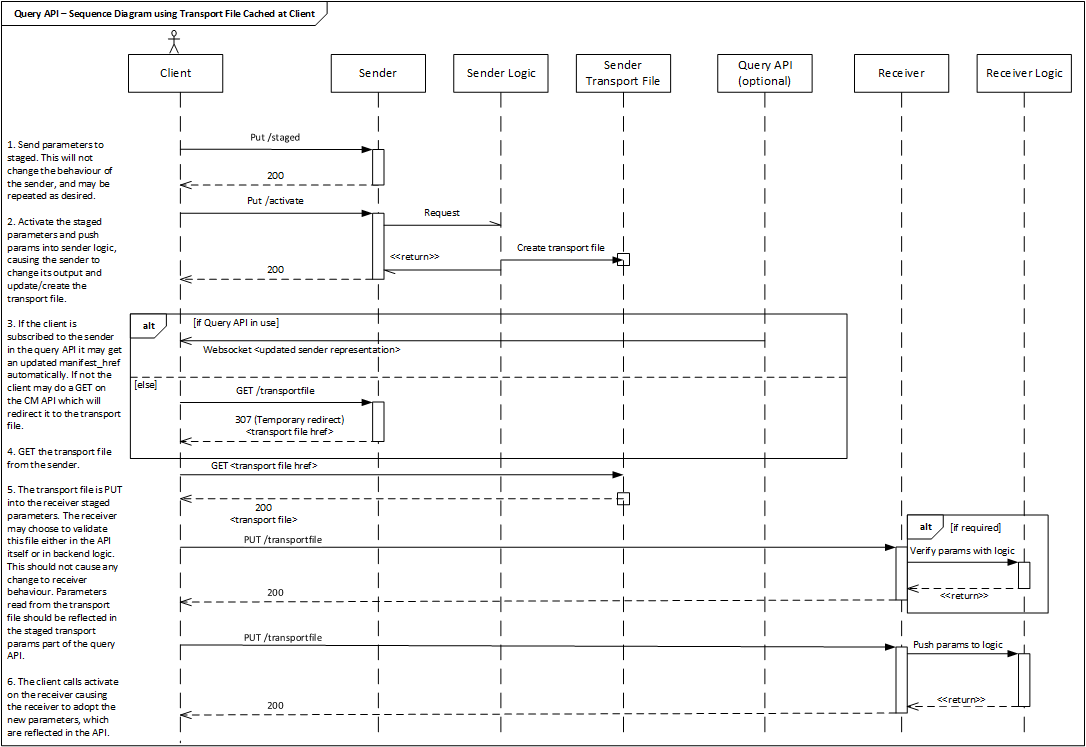
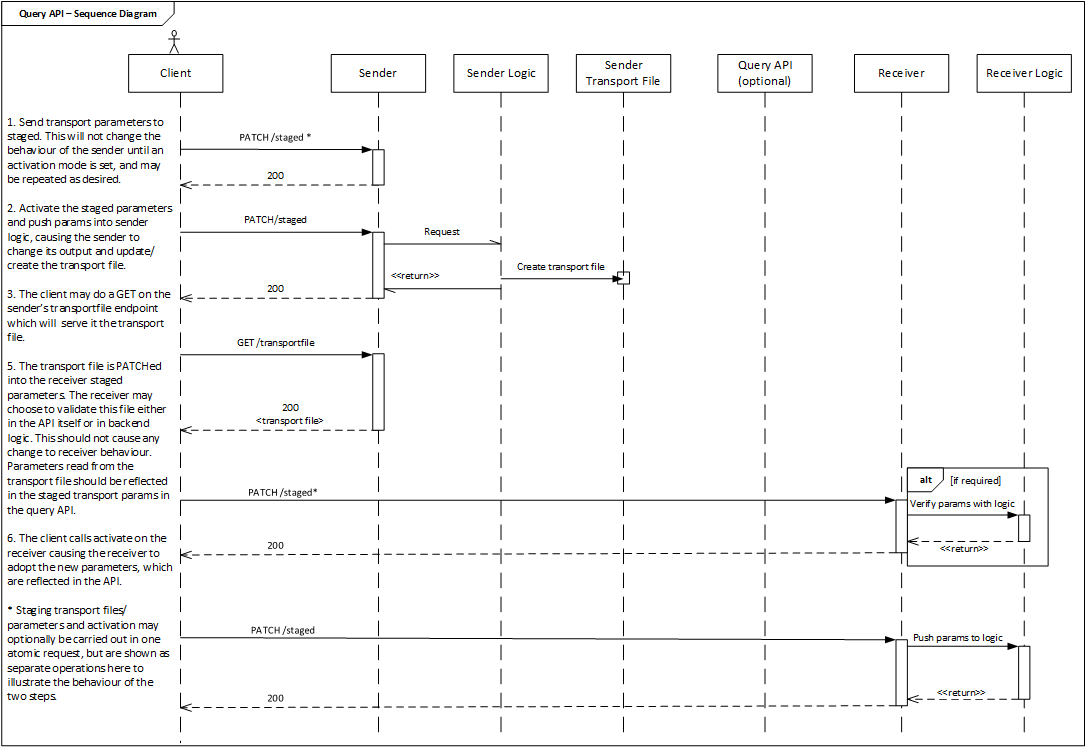
Update sequence diagram

diff --git a/README.md b/README.md
@@ -20,14 +20,19 @@ Readers should then read the [documentation](docs/) in this repository, and the 
 * [LICENSE](LICENSE) -- Licenses for software and text documents
 * [NOTICE](NOTICE) -- Disclaimer
 
+### Sequence Diagram
+The sequence diagram below shows a basic interaction with the Connection Management API:
+
+![Sequence Diagram](docs/direct_seq_diagram.png)
+
 ### Un-initialised Senders and Receivers
 
 When a sender or receiver is first started it may not have all the parameters it needs to operate. For example IP addresses and port numbers may not be set. In this instance:
 
-* Senders and receivers should present sensible default values on transport parameter endpoints. Suggested defaults are given in the relevant schemas. Parameters such as port numbers may have defaults in various RFCs that should be followed. Parameters where no sensible defaults exist, such as source IP address on a receiver, should be set to null.
+* Senders and receivers should present sensible default values on transport parameter endpoints. Suggested defaults are given in the relevant schemas, but will generally be 'auto' or null. Parameters such as port numbers may have defaults in various RFCs that should be followed. Parameters where no sensible defaults exist, such as source IP address on a receiver, should be set to null.
 * Senders that are not configured (for example have a null source IP address value), should return 404 on their active transport file endpoint, until a usable set of parameters has been activated.
 
-### Interaction with the Node API###
+### Interaction with the Node API
 
 The Connection Management API supersedes the now deprecated method of updating the "subscription" parameter on Node API receivers in order to establish connection. The two methods of operation are likely to co-exist until Version 2.0 of TR-04. As such the following best practice should be followed when both are in use:
 
